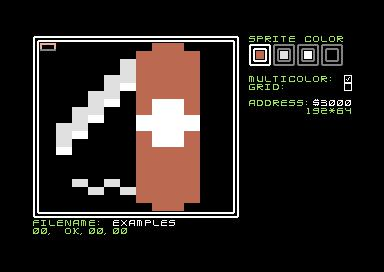
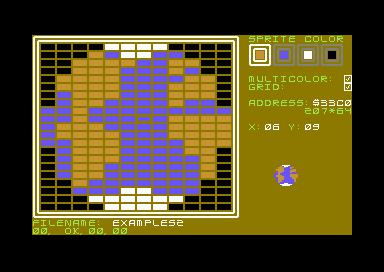
update to version 0.6

diff --git a/README.md b/README.md
@@ -27,10 +27,11 @@ Native sprite editor for Commodore 64.
 * **[CBM+L]** - load file from diskette (device 8)
 * **[CBM+S]** - save file on diskette (device 8) - prefix filename with @: if you want to overwrite
 ### MISC
-* **[RUN/STOP]** - exit from program and return to BASIC
+* **[CBM+Q]** - exit from program and return to BASIC
 * **[G]** - switch on/off the grid mode
 * **[F]** - flip sprite horizontally (it affects the clipboard!)
 * **[Shift+F]** - flip sprite vertically (it affects the clipboard!)
+* **[E]** - switch different (brown or default black) color of overall screen background
 ## Features overview
 Sprite Studio 64 is simple sprite editor for Commodore 64. It can edit up to 64 sprites and save them to PRG file on diskette.
 It is thinked for edit, exit to the BASIC, and use sprites in your short BASIC programs (for example).
